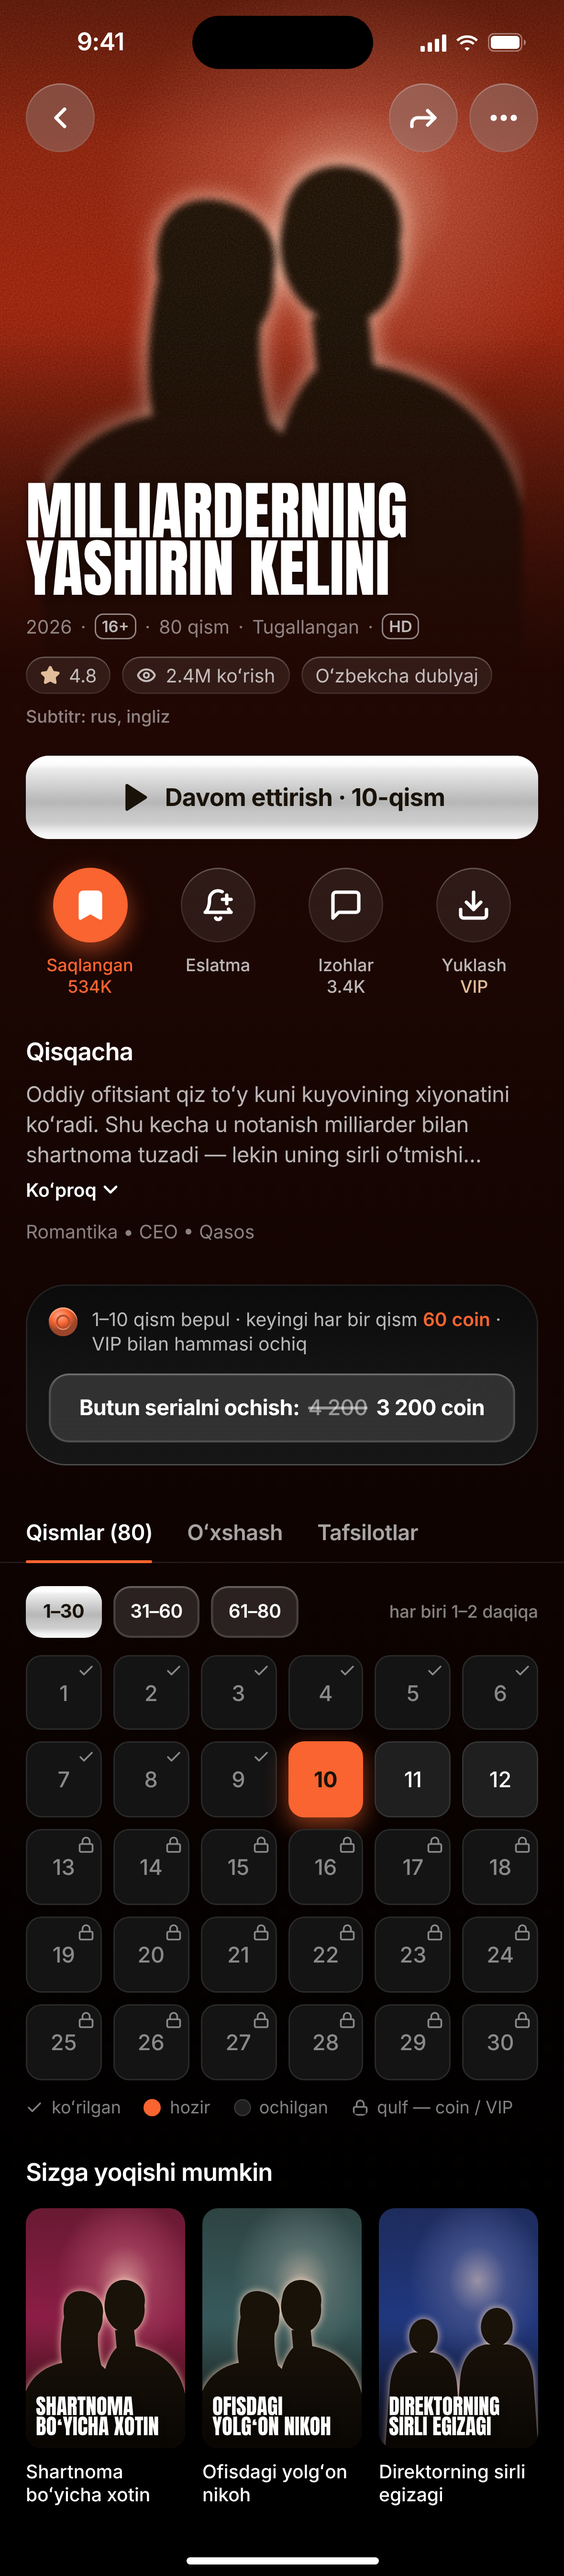
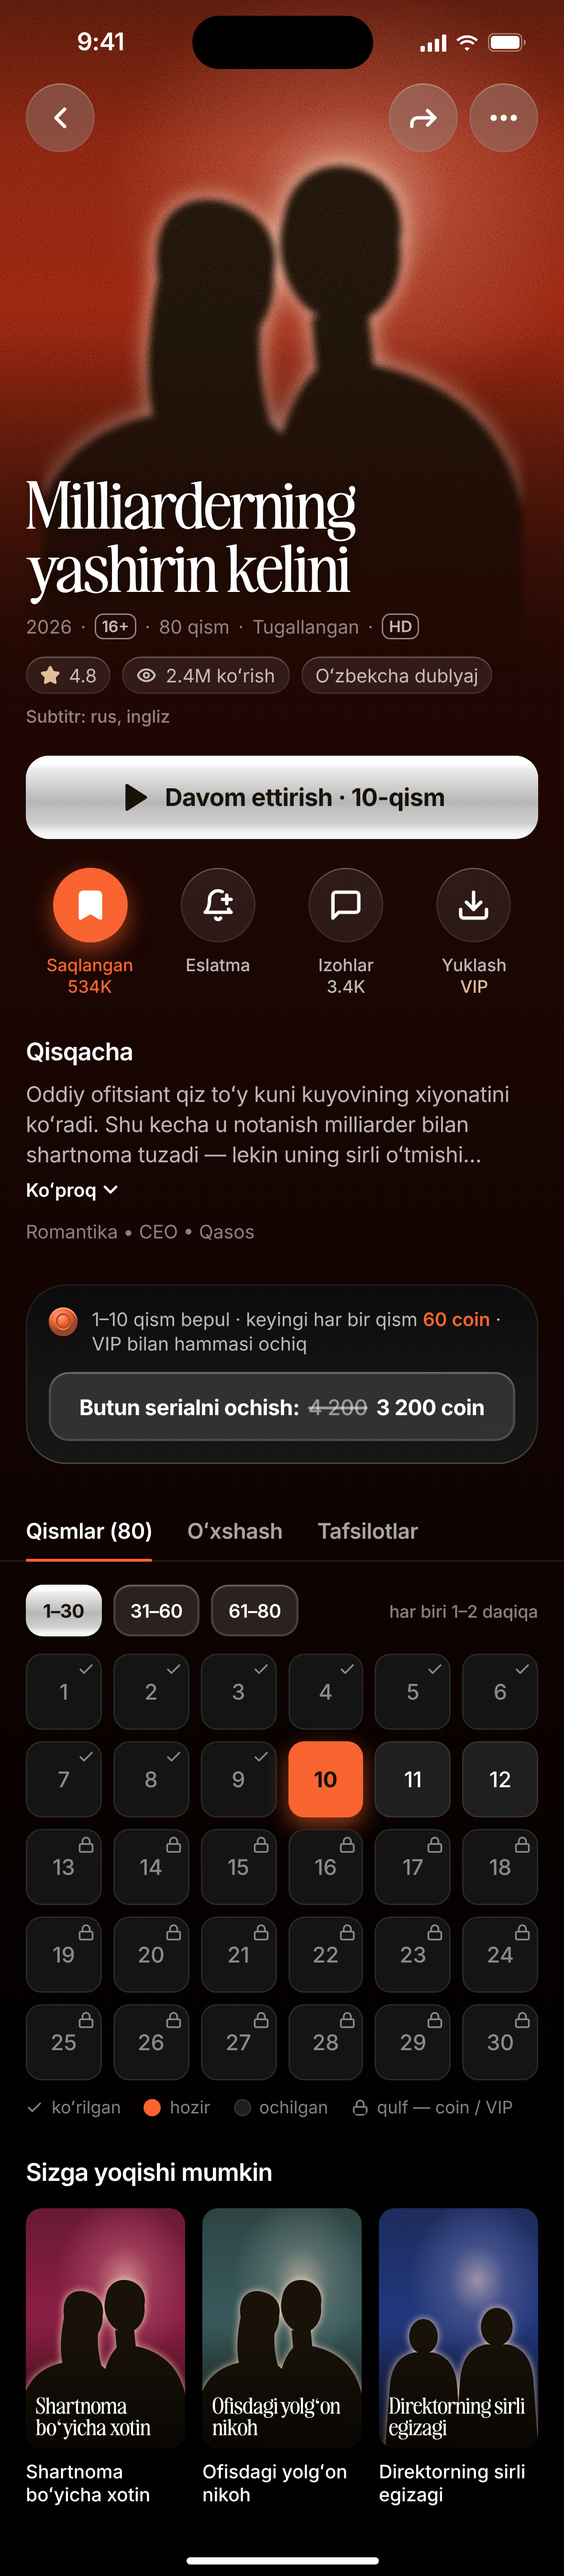
Drama titles: Awesome Serif instead of the stacked Anton lockup
The hero (04), drama page title (10) and poster key-art names now use
Awesome Serif 500 at one size in normal case. Anton stays for numerals
(Top-10, coin amounts, countdowns).

Claude-Session: https://claude.ai/code/session_01AYQSqmCKxR9wk5HyhigZPN

diff --git a/design/components.css b/design/components.css
@@ -31,6 +31,7 @@ button { font: inherit; color: inherit; background: none; border: 0; cursor: poi
 .t-display { font-family: var(--f-display); font-weight: 400; line-height: .86; text-transform: uppercase; letter-spacing: 0; }
 .t-num { font: 400 var(--t-num)/.9 var(--f-display); }
 .t-serif-xl { font: 400 var(--t-serif-xl)/1.05 var(--f-serif); letter-spacing: 0; font-variant-numeric: lining-nums; }
+.t-serif-hero { font: 500 var(--t-serif-hero)/1 var(--f-serif); letter-spacing: -.01em; font-variant-numeric: lining-nums; }
 .t-serif-lg { font: 400 var(--t-serif-lg)/1.1 var(--f-serif); letter-spacing: 0; font-variant-numeric: lining-nums; }
 .t-edit-xl { font: 400 var(--t-edit-xl)/.98 var(--f-edit); letter-spacing: -.04em; }
 .t-edit { font: 400 var(--t-edit)/1.41 var(--f-edit); letter-spacing: -.04em; }
@@ -155,7 +156,7 @@ button { font: inherit; color: inherit; background: none; border: 0; cursor: poi
 .poster { position: relative; flex: none; width: var(--pw, 104px); }
 .poster__media { position: relative; aspect-ratio: 2 / 3; border-radius: var(--r-poster); overflow: hidden; }
 .poster__media::after { content: ''; position: absolute; inset: 0; background: var(--poster-fade); pointer-events: none; }
-.poster__name { position: absolute; z-index: 2; left: 7px; right: 7px; bottom: 8px; font: 400 var(--t-body)/.92 var(--f-display); text-transform: uppercase; color: var(--text-1); text-shadow: var(--text-shadow); }
+.poster__name { position: absolute; z-index: 2; left: 7px; right: 7px; bottom: 8px; font: 500 var(--t-body)/1 var(--f-serif); color: var(--text-1); text-shadow: var(--text-shadow); }
 .poster__eps { position: absolute; z-index: 2; right: 6px; bottom: 6px; }
 .poster__title { margin-top: var(--s-8); font: 500 var(--t-footnote)/1.25 var(--f-ui); color: var(--text-1); display: -webkit-box; -webkit-line-clamp: 2; -webkit-box-orient: vertical; overflow: hidden; }
 .poster__meta { margin-top: 3px; display: flex; align-items: center; gap: 4px; font: 400 var(--t-caption)/1.2 var(--f-ui); color: var(--text-3); }

diff --git a/design/screens/04-bosh-sahifa.html b/design/screens/04-bosh-sahifa.html
@@ -18,8 +18,7 @@
   .coin-chip { height: var(--d-glass-sm); padding: 0 var(--s-12) 0 var(--s-8); gap: var(--s-6); font: 600 var(--t-body)/1 var(--f-ui); color: var(--text-1); background: var(--glass-bg-strong); }
   .coin-chip .ic { width: 16px; height: 16px; color: var(--text-2); }
   .trailer { position: absolute; z-index: 5; top: 116px; right: var(--page-x); background: var(--glass-dark); color: var(--text-1); }
-  .hero__title { position: absolute; z-index: 4; top: 150px; left: 50%; transform: translateX(-50%); width: 220px; text-align: center; color: var(--text-1); text-shadow: var(--text-shadow); }
-  .hero__title span { display: block; white-space: nowrap; }
+  .hero__title { position: absolute; z-index: 4; left: var(--page-x); right: var(--page-x); bottom: 172px; text-align: center; color: var(--text-1); text-shadow: var(--text-shadow); }
   .hero__meta { position: absolute; z-index: 4; top: 338px; left: 0; right: 0; text-align: center; }
   .hero__chips { position: absolute; z-index: 4; top: 364px; left: 0; right: 0; display: flex; justify-content: center; gap: var(--s-8); }
   .hero__cta { position: absolute; z-index: 4; top: 402px; left: 0; right: 0; display: flex; justify-content: center; gap: var(--s-8); }
@@ -63,11 +62,7 @@
 
     <span class="chip trailer"><i class="ic ic-volume"></i>Treyler ovozli</span>
 
-    <h1 class="hero__title t-display">
-      <span style="font-size: 36.4px; line-height: 38px">Milliarderning</span>
-      <span style="font-size: 66.7px; line-height: 60px">yashirin</span>
-      <span style="font-size: 98.5px; line-height: 86px">kelini</span>
-    </h1>
+    <h1 class="hero__title t-serif-hero">Milliarderning<br>yashirin kelini</h1>
     <p class="hero__meta t-footnote c-2">Romantika · Qasos · 80 qism · Oʻzbekcha dublyaj</p>
 
     <div class="hero__chips">

diff --git a/design/screens/10-drama.html b/design/screens/10-drama.html
@@ -15,8 +15,8 @@
   .hero__media { position: absolute; inset: 0; -webkit-mask-image: linear-gradient(180deg, var(--bg-0) 50%, transparent 100%); mask-image: linear-gradient(180deg, var(--bg-0) 50%, transparent 100%); }
   .hero__fade { position: absolute; left: 0; right: 0; top: 0; height: 22%; background: var(--shade-top); opacity: .5; }
   .topbar { position: absolute; z-index: 5; top: 58px; left: var(--page-x); right: var(--page-x); display: flex; justify-content: space-between; }
-  .head { position: relative; z-index: 4; margin-top: -132px; padding: 0 var(--page-x); }
-  .head__title { font-size: var(--t-edit); line-height: .9; text-shadow: var(--text-shadow); }
+  .head { position: relative; z-index: 4; margin-top: -141px; padding: 0 var(--page-x); }
+  .head__title { font-size: var(--t-edit); text-shadow: var(--text-shadow); }
   .meta { display: flex; align-items: center; flex-wrap: wrap; gap: 6px; margin-top: var(--s-12); }
   .chips { display: flex; gap: var(--s-8); margin-top: var(--s-12); }
   .actions { display: grid; grid-template-columns: repeat(4, 1fr); margin-top: var(--s-20); padding: 0 var(--page-x); }
@@ -53,7 +53,7 @@
   </section>
 
   <section class="head">
-    <h1 class="t-display head__title">Milliarderning<br>yashirin kelini</h1>
+    <h1 class="t-serif-hero head__title">Milliarderning<br>yashirin kelini</h1>
     <div class="meta t-footnote c-3">
       <span>2026</span><span>·</span><span class="outline-badge">16+</span><span>·</span><span>80 qism</span><span>·</span><span>Tugallangan</span><span>·</span><span class="outline-badge">HD</span>
     </div>

diff --git a/design/styleguide.html b/design/styleguide.html
@@ -217,8 +217,8 @@
 
   const ABC = 'Aa Bb Dd Ee Ff Gg Hh Ii Jj Kk Ll Mm Nn Oo Pp Qq Rr Ss Tt Uu Vv Xx Yy Zz Oʻoʻ Gʻgʻ Shsh Chch';
   const FONTS = [
-    ['Anton', '--f-display', 'Display · 400', 'Hero sarlavha lockup, Top-10 raqamlari, coin miqdori, countdown.', 'ANTON'],
-    ['Awesome Serif', '--f-serif', 'Serif · 400 / 500 · ʻ ʼ « » + — Playfair Display', 'Emotsional sarlavhalar: onboarding, kirish, sovgʻa, VIP, profil ismi.', ''],
+    ['Anton', '--f-display', 'Display · 400', 'Top-10 raqamlari, coin miqdori, countdown.', 'ANTON'],
+    ['Awesome Serif', '--f-serif', 'Serif · 400 / 500 · ʻ ʼ « » + — Playfair Display', 'Drama nomi (hero, drama sahifasi, poster), emotsional sarlavhalar: onboarding, kirish, sovgʻa, VIP, profil ismi.', ''],
     ['Inter', '--f-ui', 'UI · 400 / 500 / 600 / 700', 'Barcha interfeys matni: tugma, roʻyxat, meta, nav.', ''],
     ['Inter Tight', '--f-edit', 'Editorial · 400 / 500', 'Katta tahririy sarlavhalar va roʻyxatlar (ref-03).', ''],
     ['IBM Plex Mono', '--f-mono', 'Mono · 400 / 500', 'ID, taklif kodi, kichik yorliqlar.', ''],

diff --git a/design/tokens.css b/design/tokens.css
@@ -193,6 +193,7 @@
   --t-num-xl: 96px;     /* PROMPT §20 "−60%" */
   --t-serif-xl: 40px;   /* ref-01 sarah.lg */
   --t-serif-lg: 32px;
+  --t-serif-hero: 53px; /* drama nomi (04 hero, 10) — foydalanuvchi: Anton lockup o'rniga Awesome Serif 500 */
   --t-edit-xl: 53px;    /* ref-03 events upcoming */
   --t-edit: 44px;       /* ref-03 ro'yxat */
   --t-title-1: 36px;    /* ref-06 Relief Meditation */

diff --git a/design/analysis/DEVIATIONS.md b/design/analysis/DEVIATIONS.md
@@ -10,6 +10,7 @@ Har bir farq: nima → nimaga · sababi · manba. "O'lchov" — 1-bosqichda refe
 | U3 | Tugmalar: pill (999) → **radius 16 / 14 / 12**, balandlik 52 / 43 / 29 → **58 / 48 / 34**, matn 600 15 → **700 17 / 15 / 13**, ikonka 20 → 22; glass tugma foni oq 8 % → **12 %**, chegara 1 → **1.5 px**; 02-ekranda tugmalar orasi 12 → **8** | Foydalanuvchi: «katta-katta, qalin, bir-biriga yaqin, burchaklari kamroq yumaloq». ref-01 glossy gradient saqlandi, faqat shakli o'zgardi |
 | U5 | Bosiladigan chip'lar (til, filtr, sifat/ovoz/subtitr, qism oralig'i, saralash, pleer pastki tugmalari, oxirgi qidiruvlar, to'lov usullari, bildirishnoma va yordam mavzulari) → **tanlov tugmasi** `.choice`: 44 / 36 pt, radius 12, 600–700, tanlangani glossy oq, qolganlari glass tugma | Foydalanuvchi: «shu tugmalar pastdagi (asosiy) tugmaga o'xshasin». Ma'lumot beruvchi teglar (Haftaning hiti, janr teglari, VIP emas) chip bo'lib qoldi |
 | U6 | Pastki nav: ref-01 to'q pill (55, `#1E1E1E→#151515`) → **liquid glass** (shaffof + blur 22 + saturate 180 %, yuqori sheen, yorqin qirralar, chuqur soya), balandlik **62**, radius **20** (aktiv element 14), ikonka 24, yozuv 600 11 pt; **Lenta** — oq glossy doira o'rniga **flame** tugma (46, radius 16, glow), yozuvi oq 700 | Foydalanuvchi: «qalinroq, burchagi tugmalar kabi, liquid glass, Lenta boshqa rangda ajralib tursin». Flame matn rangi nur ustida 3.6:1 bo'lgani uchun yozuv oq qoldirildi |
+| U7 | Drama nomi: S20 justified Anton lockup (har qator o'z o'lchamida, katta harf) → **Awesome Serif 500**, bir xil o'lcham, odatiy registr: 04 hero **53** (`--t-serif-hero`, markazda, ikki qator, pastki cheti meta'dan 12 pt yuqorida), 10 sarlavha **44** (blok 9 pt yuqoriga, ostidagi kontent joyida), poster ustidagi nom Anton 15 → **Awesome Serif 500 15**. Anton faqat raqamlarda qoldi (Top-10, coin, countdown) | Foydalanuvchi so'rovi (lockup «xunuk, g'alati ko'rinyapti») |
 | U4 | «Davom ettirish» kartalari: landscape 16:9 (ref-02) → **Reels formatida vertikal 9:16** (132 × 235, qism raqami kadr ichida, pastida himoya gradienti) | Foydalanuvchi so'rovi (YouTube formati o'rniga Reels) |
 
 ## Tizim darajasida
@@ -34,7 +35,7 @@ Har bir farq: nima → nimaga · sababi · manba. "O'lchov" — 1-bosqichda refe
 | S17 | Sheet tutqichi rangi (`--handle`, oq 30%) | Referenslarda bottom sheet yo'q — iOS grabber |
 | S18 | Rasmlar: Unsplash → **ambient rang + siluet + grain placeholder** | `images.unsplash.com` bu muhitda bloklangan (proxy 403). PROMPT §3 zaxira usuli. Katta kadrlarda siluetga 2.5 px fokus-blur (`.art--soft`) |
 | S19 | O'zbek belgisi: `ʻ` (U+02BB) va `ʼ` (U+02BC); serif stekida **Noto Serif subset (faqat ʻ ʼ) Gelasio'dan oldin** | 5 shriftning barchasida glif bor, lekin 5-bosqichda topildi: Gelasio'da `ʻ` kengligi 0 («Oʻz» → «Ož»). Google Fonts `text=ʻʼ` subset'i faqat shu ikki belgini almashtiradi (`fonts.md` §7a) |
-| S20 | Hero drama nomi "Anton 52" → **ref-01 justified lockup** (har qator o'z o'lchamida, bir xil kenglik; 04-ekranda 36.4 / 66.7 / 98.5 px, kenglik 220) | O'lchov: ref-01 "MARTY" cap 77.5 pt, "SUPREME" 50.5 pt, ikkalasi 121 pt kenglikda |
+| S20 | *(U7 bilan almashtirildi)* Hero drama nomi "Anton 52" → **ref-01 justified lockup** (har qator o'z o'lchamida, bir xil kenglik; 04-ekranda 36.4 / 66.7 / 98.5 px, kenglik 220) | O'lchov: ref-01 "MARTY" cap 77.5 pt, "SUPREME" 50.5 pt, ikkalasi 121 pt kenglikda |
 | S21 | Qidiruv maydoni balandligi 79 (ref-04 o'lchovi) → **60** | PROMPT §06 aniq 60 pt deydi; foydalanuvchi spetsifikatsiyasi ustun |
 | S22 | Grain kuchi `--grain-opacity: .10` | Kalibrlash: 11-ekran ref-07 masshtabiga kichraytirilganda yuqori chastota std 1.7–2.1 (ref-07: 0.8–1.9) |
 

diff --git a/design/analysis/CHECKLIST.md b/design/analysis/CHECKLIST.md
@@ -18,7 +18,7 @@
 ## 4. Matn kontrasti (WCAG: oddiy 4.5, katta 3.0)
 Fon — matnsiz render (`*{color:transparent}`) piksellari; matn rangi alfa va ota-ona opacity bilan aralashtiriladi; koʻrsatkich — matn bbox'idagi eng yomon 10 % piksel (p10).
 
-- Matn elementlari: 977; chegaradan past: **0** (+ 1 disabled / placeholder / mask bilan ataylab soʻndirilgan)
+- Matn elementlari: 975; chegaradan past: **0** (+ 1 disabled / placeholder / mask bilan ataylab soʻndirilgan)
   - 01 `ul.list.t-edit > li` «Shartnomali nikoh» 44px — p10 2.78 < 3.0 (mask: ataylab soʻndirilgan)
 
 ## 5. Tipografiya shkalasi
@@ -70,10 +70,7 @@ Fon — matnsiz render (`*{color:transparent}`) piksellari; matn rangi alfa va o
   - Yashirin chempion: --amb-15 art--walk
 
 ## 8. Ekran CSS'idagi xom qiymatlar (tokens.css'dan tashqari)
-- Jami: **3**
-  - 04 [font-size] `font-size: 36.4px; line-height: 38px`
-  - 04 [font-size] `font-size: 66.7px; line-height: 60px`
-  - 04 [font-size] `font-size: 98.5px; line-height: 86px`
+- Jami: **0**
 
 ## 9. PROMPT 5-bosqich ro'yxati — yakuniy holat
 | Band | Holat | Dalil |
